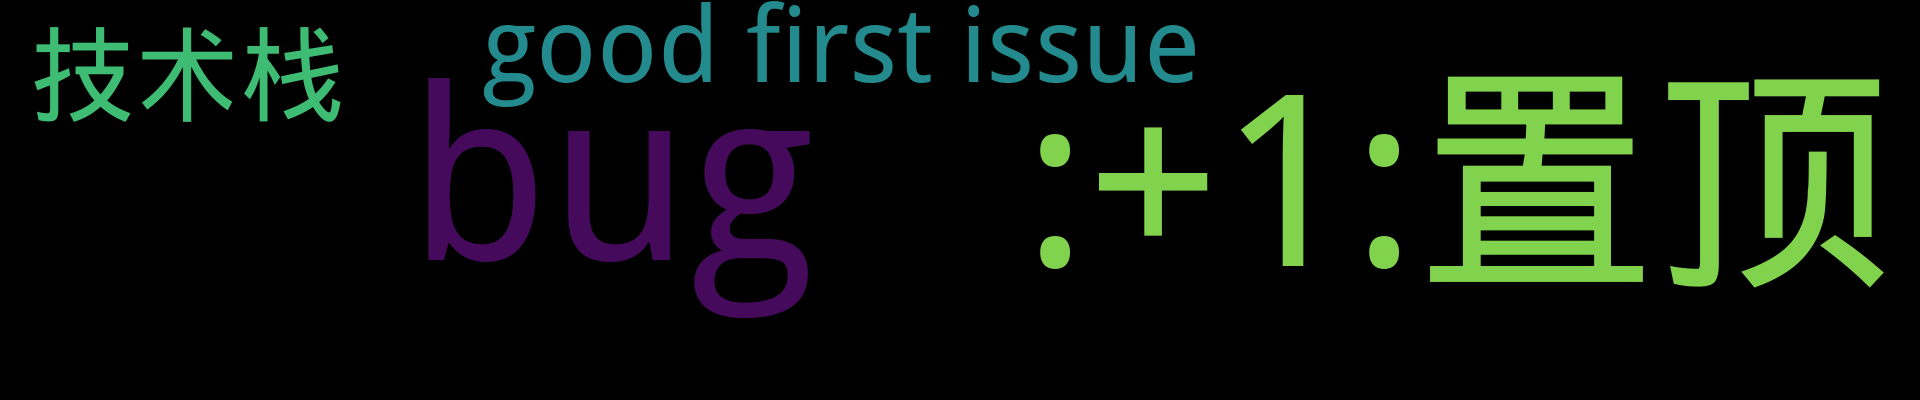
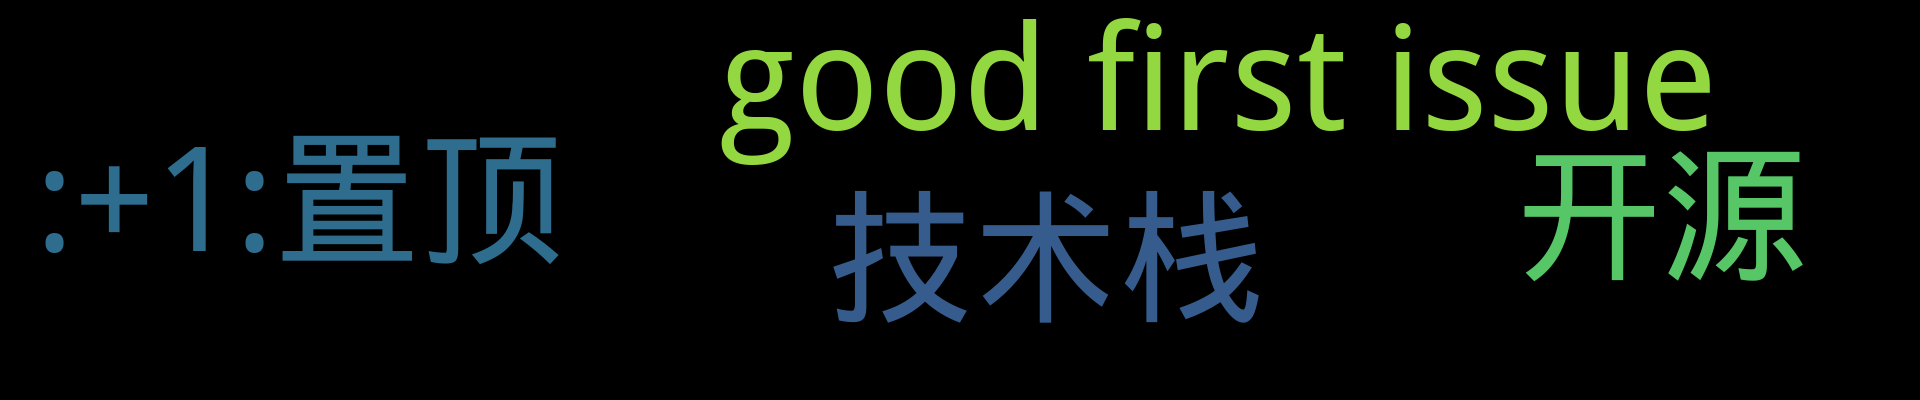
Update from Github Action

diff --git a/README.md b/README.md
@@ -3,7 +3,7 @@
 <p align='center'>
     <img src="https://badgen.net/badge/labels/6"/>
     <img src="https://badgen.net/github/issues/iamtomas/ghiblog"/>
-    <img src="https://badgen.net/badge/last-commit/2021-12-16 15:52:33"/>
+    <img src="https://badgen.net/badge/last-commit/2021-12-16 15:56:14"/>
     <img src="https://badgen.net/github/forks/iamtomas/ghiblog"/>
     <img src="https://badgen.net/github/stars/iamtomas/ghiblog"/>
     <img src="https://badgen.net/github/watchers/iamtomas/ghiblog"/>
@@ -23,7 +23,7 @@
 
 #### [123](https://github.com/iamtomas/note/issues/7) <sup>0 :speech_balloon:</sup> 	 2021-12-16 15:52:06
 
-:label: : [bug](https://github.com/iamtomas/ghiblog/labels/bug)
+:label: : [开源](https://github.com/iamtomas/ghiblog/labels/%E5%BC%80%E6%BA%90)
 
 123
 
@@ -80,9 +80,8 @@ https://github.com/jwenjian/ghiblog/issues/1
 </details>
 
 <details>
-<summary>bug	<sup>1:newspaper:</sup></summary>
+<summary>bug	<sup>0:newspaper:</sup></summary>
 
-- [123](https://github.com/iamtomas/note/issues/7)  <sup>0 :speech_balloon:</sup>  	 
 
 
 </details>
@@ -96,8 +95,9 @@ https://github.com/jwenjian/ghiblog/issues/1
 </details>
 
 <details>
-<summary>开源	<sup>0:newspaper:</sup></summary>
+<summary>开源	<sup>1:newspaper:</sup></summary>
 
+- [123](https://github.com/iamtomas/note/issues/7)  <sup>0 :speech_balloon:</sup>  	 
 
 
 </details>
@@ -112,3 +112,10 @@ https://github.com/jwenjian/ghiblog/issues/1
 
 
 </details>    
+
+# 开源项目
+
+
+| [123](https://github.com/iamtomas/123) | 123 | ![](https://badgen.net/github/stars/iamtomas/123) ![](https://badgen.net/github/forks/iamtomas/123) ![](https://badgen.net/github/watchers/iamtomas/123) |
+| --- | --- | --- |
+
